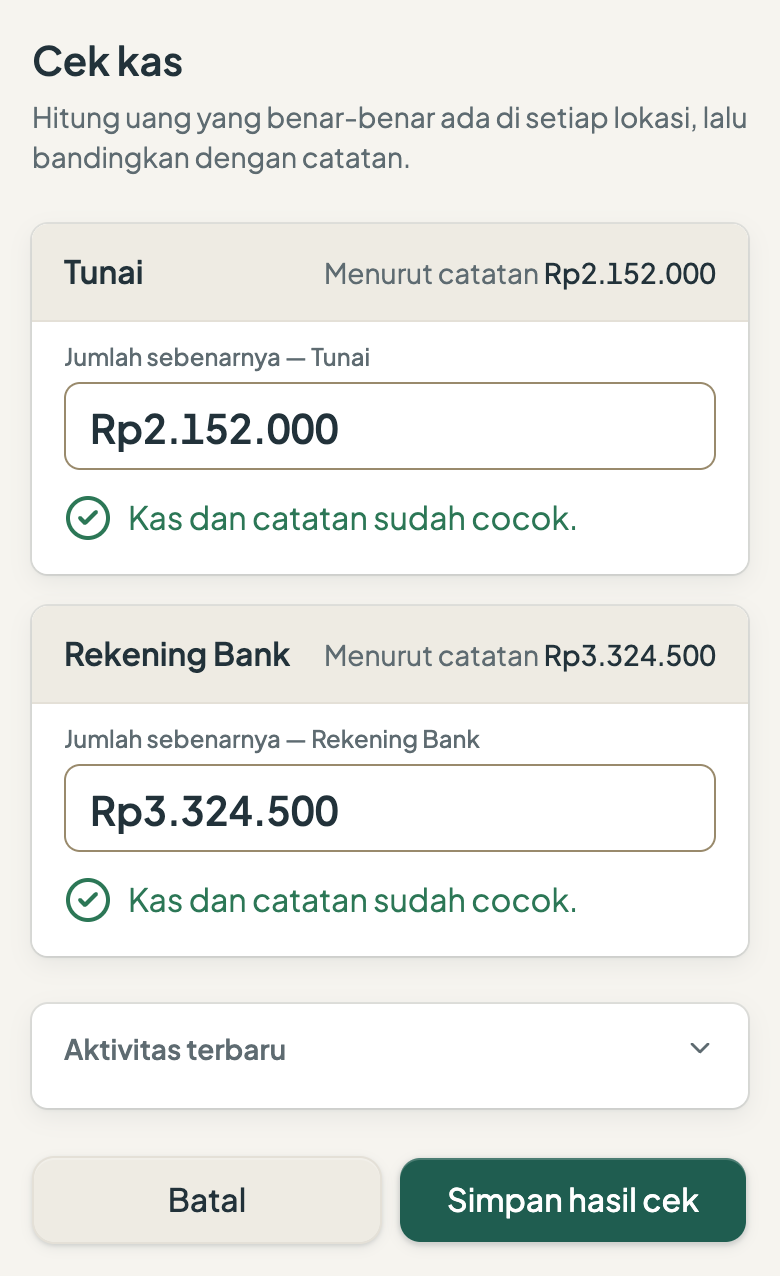
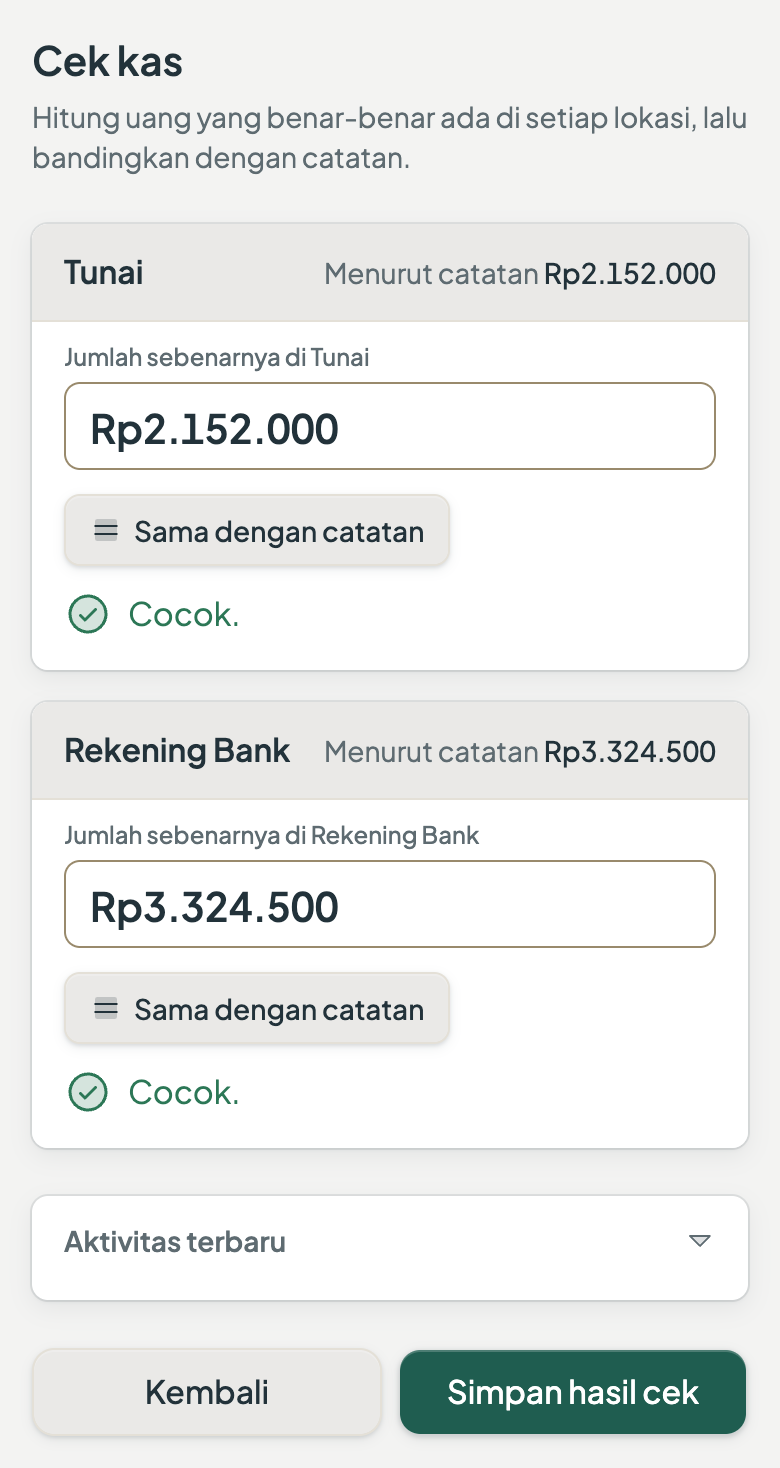
Design sync with app alpha.5; drop the founder's note (#25)
Near-grey palette, favicon and apple-touch icon from brand-sync; Phosphor
duotone icons; the app's row, total, badge and card rules on the hero and
Kenapa drawings; eyebrow at the app's 16px; demo screenshots retaken from
v0.11.0-alpha.5. The report's monthly PDF moves to the allowed claims.
Catatan pendiri is removed: a section earns its place.

diff --git a/src/icons.ts b/src/icons.ts
@@ -1,64 +1,78 @@
-// Icon path data, in one place. Line icons are Lucide (ISC licence,
-// lucide-static 1.63.0), the set the app uses; draw them on a 24x24 viewBox
-// with stroke="currentColor", stroke-width 2, round caps and joins. Brand marks
-// are Simple Icons (CC0, simple-icons 16.36.0), filled. Credits are in the
-// footer.
+// Icon path data, in one place. Line icons are Phosphor, duotone weight (MIT,
+// @phosphor-icons/core 2.1.1), the set and weight the app uses (Design-System.md,
+// Iconography). Each is two filled paths on a 256x256 viewBox: the shade,
+// drawn at 20% of the icon's colour, and the ink. Brand marks are Simple Icons
+// (CC0, simple-icons 16.36.0), filled. Credits are in the footer.
 
-export const lucide = {
-  wallet: [
-    'M19 7V4a1 1 0 0 0-1-1H5a2 2 0 0 0 0 4h15a1 1 0 0 1 1 1v4h-3a2 2 0 0 0 0 4h3a1 1 0 0 0 1-1v-2a1 1 0 0 0-1-1',
-    'M3 5v14a2 2 0 0 0 2 2h15a1 1 0 0 0 1-1v-4',
-  ],
-  landmark: [
-    'M10 18v-7',
-    'M11.119 2.205a2 2 0 0 1 1.762 0l7.84 3.846A.5.5 0 0 1 20.5 7h-17a.5.5 0 0 1-.22-.949z',
-    'M14 18v-7',
-    'M18 18v-7',
-    'M3 22h18',
-    'M6 18v-7',
-  ],
-  check: ['M20 6 9 17l-5-5'],
-  x: ['M18 6 6 18', 'm6 6 12 12'],
-  // What a fund records (Yang dicatat). Lucide's circle and rect are paths here.
-  users: [
-    'M16 21v-2a4 4 0 0 0-4-4H6a4 4 0 0 0-4 4v2',
-    'M16 3.128a4 4 0 0 1 0 7.744',
-    'M22 21v-2a4 4 0 0 0-3-3.87',
-    'M5 7a4 4 0 1 0 8 0a4 4 0 1 0-8 0',
-  ],
-  mail: [
-    'm22 7-8.991 5.727a2 2 0 0 1-2.009 0L2 7',
-    'M4 4h16a2 2 0 0 1 2 2v12a2 2 0 0 1-2 2H4a2 2 0 0 1-2-2V6a2 2 0 0 1 2-2z',
-  ],
-  receipt: [
-    'M12 17V7',
-    'M16 8h-6a2 2 0 0 0 0 4h4a2 2 0 0 1 0 4H8',
-    'M4 3a1 1 0 0 1 1-1 1.3 1.3 0 0 1 .7.2l.933.6a1.3 1.3 0 0 0 1.4 0l.934-.6a1.3 1.3 0 0 1 1.4 0l.933.6a1.3 1.3 0 0 0 1.4 0l.933-.6a1.3 1.3 0 0 1 1.4 0l.934.6a1.3 1.3 0 0 0 1.4 0l.933-.6A1.3 1.3 0 0 1 19 2a1 1 0 0 1 1 1v18a1 1 0 0 1-1 1 1.3 1.3 0 0 1-.7-.2l-.933-.6a1.3 1.3 0 0 0-1.4 0l-.934.6a1.3 1.3 0 0 1-1.4 0l-.933-.6a1.3 1.3 0 0 0-1.4 0l-.933.6a1.3 1.3 0 0 1-1.4 0l-.934-.6a1.3 1.3 0 0 0-1.4 0l-.933.6a1.3 1.3 0 0 1-.7.2 1 1 0 0 1-1-1z',
-  ],
-  arrowRightLeft: ['m16 3 4 4-4 4', 'M20 7H4', 'm8 21-4-4 4-4', 'M4 17h16'],
-  // Server sendiri. Lucide's rects and lines are paths here.
-  server: [
-    'M4 2h16a2 2 0 0 1 2 2v4a2 2 0 0 1-2 2H4a2 2 0 0 1-2-2V4a2 2 0 0 1 2-2z',
-    'M4 14h16a2 2 0 0 1 2 2v4a2 2 0 0 1-2 2H4a2 2 0 0 1-2-2v-4a2 2 0 0 1 2-2z',
-    'M6 6h.01',
-    'M6 18h.01',
-  ],
-  codeXml: ['m18 16 4-4-4-4', 'm6 8-4 4 4 4', 'm14.5 4-5 16'],
-  archive: [
-    'M3 3h18a1 1 0 0 1 1 1v3a1 1 0 0 1-1 1H3a1 1 0 0 1-1-1V4a1 1 0 0 1 1-1z',
-    'M4 8v11a2 2 0 0 0 2 2h12a2 2 0 0 0 2-2V8',
-    'M10 12h4',
-  ],
-  history: ['M3 12a9 9 0 1 0 9-9 9.75 9.75 0 0 0-6.74 2.74L3 8', 'M3 3v5h5', 'M12 7v5l4 2'],
-  chevronDown: ['m6 9 6 6 6-6'],
-  // The app's cocok and selisih marks. Lucide draws the circle as <circle>;
-  // here it is the same circle as a path.
-  circleCheck: ['M2 12a10 10 0 1 0 20 0a10 10 0 1 0-20 0', 'm16 9-5.5 5.5L8 12'],
-  triangleAlert: [
-    'm21.73 18-8-14a2 2 0 0 0-3.48 0l-8 14A2 2 0 0 0 4 21h16a2 2 0 0 0 1.73-3',
-    'M12 9v4',
-    'M12 17h.01',
-  ],
+export const phosphor = {
+  wallet: {
+    shade:
+      'M224,80V192a8,8,0,0,1-8,8H56a16,16,0,0,1-16-16V56A16,16,0,0,0,56,72H216A8,8,0,0,1,224,80Z',
+    ink: 'M216,64H56a8,8,0,0,1,0-16H192a8,8,0,0,0,0-16H56A24,24,0,0,0,32,56V184a24,24,0,0,0,24,24H216a16,16,0,0,0,16-16V80A16,16,0,0,0,216,64Zm0,128H56a8,8,0,0,1-8-8V78.63A23.84,23.84,0,0,0,56,80H216Zm-48-60a12,12,0,1,1,12,12A12,12,0,0,1,168,132Z',
+  },
+  bank: {
+    shade: 'M232,96H24L128,32Z',
+    ink: 'M24,104H48v64H32a8,8,0,0,0,0,16H224a8,8,0,0,0,0-16H208V104h24a8,8,0,0,0,4.19-14.81l-104-64a8,8,0,0,0-8.38,0l-104,64A8,8,0,0,0,24,104Zm40,0H96v64H64Zm80,0v64H112V104Zm48,64H160V104h32ZM128,41.39,203.74,88H52.26ZM248,208a8,8,0,0,1-8,8H16a8,8,0,0,1,0-16H240A8,8,0,0,1,248,208Z',
+  },
+  check: {
+    shade:
+      'M232,56V200a16,16,0,0,1-16,16H40a16,16,0,0,1-16-16V56A16,16,0,0,1,40,40H216A16,16,0,0,1,232,56Z',
+    ink: 'M205.66,85.66l-96,96a8,8,0,0,1-11.32,0l-40-40a8,8,0,0,1,11.32-11.32L104,164.69l90.34-90.35a8,8,0,0,1,11.32,11.32Z',
+  },
+  x: {
+    shade:
+      'M216,56V200a16,16,0,0,1-16,16H56a16,16,0,0,1-16-16V56A16,16,0,0,1,56,40H200A16,16,0,0,1,216,56Z',
+    ink: 'M205.66,194.34a8,8,0,0,1-11.32,11.32L128,139.31,61.66,205.66a8,8,0,0,1-11.32-11.32L116.69,128,50.34,61.66A8,8,0,0,1,61.66,50.34L128,116.69l66.34-66.35a8,8,0,0,1,11.32,11.32L139.31,128Z',
+  },
+  // What a fund records (Yang dicatat).
+  users: {
+    shade: 'M136,108A52,52,0,1,1,84,56,52,52,0,0,1,136,108Z',
+    ink: 'M117.25,157.92a60,60,0,1,0-66.5,0A95.83,95.83,0,0,0,3.53,195.63a8,8,0,1,0,13.4,8.74,80,80,0,0,1,134.14,0,8,8,0,0,0,13.4-8.74A95.83,95.83,0,0,0,117.25,157.92ZM40,108a44,44,0,1,1,44,44A44.05,44.05,0,0,1,40,108Zm210.14,98.7a8,8,0,0,1-11.07-2.33A79.83,79.83,0,0,0,172,168a8,8,0,0,1,0-16,44,44,0,1,0-16.34-84.87,8,8,0,1,1-5.94-14.85,60,60,0,0,1,55.53,105.64,95.83,95.83,0,0,1,47.22,37.71A8,8,0,0,1,250.14,206.7Z',
+  },
+  envelope: {
+    shade: 'M224,56l-96,88L32,56Z',
+    ink: 'M224,48H32a8,8,0,0,0-8,8V192a16,16,0,0,0,16,16H216a16,16,0,0,0,16-16V56A8,8,0,0,0,224,48Zm-96,85.15L52.57,64H203.43ZM98.71,128,40,181.81V74.19Zm11.84,10.85,12,11.05a8,8,0,0,0,10.82,0l12-11.05,58,53.15H52.57ZM157.29,128,216,74.18V181.82Z',
+  },
+  receipt: {
+    shade:
+      'M224,56V208l-32-16-32,16-32-16L96,208,64,192,32,208V56a8,8,0,0,1,8-8H216A8,8,0,0,1,224,56Z',
+    ink: 'M72,104a8,8,0,0,1,8-8h96a8,8,0,0,1,0,16H80A8,8,0,0,1,72,104Zm8,40h96a8,8,0,0,0,0-16H80a8,8,0,0,0,0,16ZM232,56V208a8,8,0,0,1-11.58,7.15L192,200.94l-28.42,14.21a8,8,0,0,1-7.16,0L128,200.94,99.58,215.15a8,8,0,0,1-7.16,0L64,200.94,35.58,215.15A8,8,0,0,1,24,208V56A16,16,0,0,1,40,40H216A16,16,0,0,1,232,56Zm-16,0H40V195.06l20.42-10.22a8,8,0,0,1,7.16,0L96,199.06l28.42-14.22a8,8,0,0,1,7.16,0L160,199.06l28.42-14.22a8,8,0,0,1,7.16,0L216,195.06Z',
+  },
+  arrowsLeftRight: {
+    shade: 'M208,80v96H48V80Z',
+    ink: 'M213.66,181.66l-32,32a8,8,0,0,1-11.32-11.32L188.69,184H48a8,8,0,0,1,0-16H188.69l-18.35-18.34a8,8,0,0,1,11.32-11.32l32,32A8,8,0,0,1,213.66,181.66Zm-139.32-64a8,8,0,0,0,11.32-11.32L67.31,88H208a8,8,0,0,0,0-16H67.31L85.66,53.66A8,8,0,0,0,74.34,42.34l-32,32a8,8,0,0,0,0,11.32Z',
+  },
+  // Server sendiri.
+  hardDrives: {
+    shade:
+      'M216,152v48a8,8,0,0,1-8,8H48a8,8,0,0,1-8-8V152a8,8,0,0,1,8-8H208A8,8,0,0,1,216,152ZM208,48H48a8,8,0,0,0-8,8v48a8,8,0,0,0,8,8H208a8,8,0,0,0,8-8V56A8,8,0,0,0,208,48Z',
+    ink: 'M208,136H48a16,16,0,0,0-16,16v48a16,16,0,0,0,16,16H208a16,16,0,0,0,16-16V152A16,16,0,0,0,208,136Zm0,64H48V152H208v48Zm0-160H48A16,16,0,0,0,32,56v48a16,16,0,0,0,16,16H208a16,16,0,0,0,16-16V56A16,16,0,0,0,208,40Zm0,64H48V56H208v48ZM192,80a12,12,0,1,1-12-12A12,12,0,0,1,192,80Zm0,96a12,12,0,1,1-12-12A12,12,0,0,1,192,176Z',
+  },
+  code: {
+    shade: 'M240,128l-48,40H64L16,128,64,88H192Z',
+    ink: 'M69.12,94.15,28.5,128l40.62,33.85a8,8,0,1,1-10.24,12.29l-48-40a8,8,0,0,1,0-12.29l48-40a8,8,0,0,1,10.24,12.3Zm176,27.7-48-40a8,8,0,1,0-10.24,12.3L227.5,128l-40.62,33.85a8,8,0,1,0,10.24,12.29l48-40a8,8,0,0,0,0-12.29ZM162.73,32.48a8,8,0,0,0-10.25,4.79l-64,176a8,8,0,0,0,4.79,10.26A8.14,8.14,0,0,0,96,224a8,8,0,0,0,7.52-5.27l64-176A8,8,0,0,0,162.73,32.48Z',
+  },
+  archive: {
+    shade: 'M216,96v96a8,8,0,0,1-8,8H48a8,8,0,0,1-8-8V96Z',
+    ink: 'M224,48H32A16,16,0,0,0,16,64V88a16,16,0,0,0,16,16v88a16,16,0,0,0,16,16H208a16,16,0,0,0,16-16V104a16,16,0,0,0,16-16V64A16,16,0,0,0,224,48ZM208,192H48V104H208ZM224,88H32V64H224V88ZM96,136a8,8,0,0,1,8-8h48a8,8,0,0,1,0,16H104A8,8,0,0,1,96,136Z',
+  },
+  clockCounterClockwise: {
+    shade: 'M216,128a88,88,0,1,1-88-88A88,88,0,0,1,216,128Z',
+    ink: 'M136,80v43.47l36.12,21.67a8,8,0,0,1-8.24,13.72l-40-24A8,8,0,0,1,120,128V80a8,8,0,0,1,16,0Zm-8-48A95.44,95.44,0,0,0,60.08,60.15C52.81,67.51,46.35,74.59,40,82V64a8,8,0,0,0-16,0v40a8,8,0,0,0,8,8H72a8,8,0,0,0,0-16H49c7.15-8.42,14.27-16.35,22.39-24.57a80,80,0,1,1,1.66,114.75,8,8,0,1,0-11,11.64A96,96,0,1,0,128,32Z',
+  },
+  caretDown: {
+    shade: 'M208,96l-80,80L48,96Z',
+    ink: 'M215.39,92.94A8,8,0,0,0,208,88H48a8,8,0,0,0-5.66,13.66l80,80a8,8,0,0,0,11.32,0l80-80A8,8,0,0,0,215.39,92.94ZM128,164.69,67.31,104H188.69Z',
+  },
+  // The app's cocok and selisih marks (Reconcile.tsx).
+  checkCircle: {
+    shade: 'M224,128a96,96,0,1,1-96-96A96,96,0,0,1,224,128Z',
+    ink: 'M173.66,98.34a8,8,0,0,1,0,11.32l-56,56a8,8,0,0,1-11.32,0l-24-24a8,8,0,0,1,11.32-11.32L112,148.69l50.34-50.35A8,8,0,0,1,173.66,98.34ZM232,128A104,104,0,1,1,128,24,104.11,104.11,0,0,1,232,128Zm-16,0a88,88,0,1,0-88,88A88.1,88.1,0,0,0,216,128Z',
+  },
+  magnifyingGlass: {
+    shade: 'M192,112a80,80,0,1,1-80-80A80,80,0,0,1,192,112Z',
+    ink: 'M229.66,218.34,179.6,168.28a88.21,88.21,0,1,0-11.32,11.31l50.06,50.07a8,8,0,0,0,11.32-11.32ZM40,112a72,72,0,1,1,72,72A72.08,72.08,0,0,1,40,112Z',
+  },
 } as const;
 
 export const simpleIcons = {

diff --git a/src/styles/tokens.css b/src/styles/tokens.css
@@ -11,7 +11,7 @@
    as a tint only, and gentle semantics (terracotta for "selisih", never
    alarm-red). Change these there first, then here. */
 :root {
-  --background: #f6f4ef;
+  --background: #f3f3f2;
   --foreground: #22323a;
   --card: #ffffff;
   --card-foreground: #22323a;
@@ -26,12 +26,12 @@
   --accent: #7bae8d;
   --accent-foreground: #22323a;
 
-  --muted: #eeebe3;
-  --muted-foreground: #5e6b71; /* 4.62:1 on --muted, 5.0:1 on the page (#508) */
+  --muted: #eae9e7;
+  --muted-foreground: #5e6b71; /* 4.53:1 on --muted, 4.95:1 on the page (#508) */
   --border: #e4e0d7;
   /* A step darker than the --border hairline: a field is something to type into,
-       and at the hairline's shade its edge all but vanished on the cream. */
-  --input: #998a6c; /* 3.08:1 on the page, 3.38:1 on a card: AA non-text (#508) */
+       and at the hairline's shade its edge all but vanished on the page. */
+  --input: #998a6c; /* 3.05:1 on the page, 3.38:1 on a card: AA non-text (#508) */
   --ring: #2f6f60;
 
   --success: #2c7756; /* 4.65:1 on success-soft, 4.92:1 on the page (#526) */
@@ -60,6 +60,9 @@
 
   /* The app's card elevation (Design-System.md, Shape and elevation). */
   --shadow-card: 0 1px 2px rgba(34, 50, 58, 0.06), 0 4px 12px rgba(34, 50, 58, 0.08);
+  /* The hairline ring under every app card (web/src/components/cardClasses.ts,
+     ring-1 ring-foreground/10); used on the drawings of app screens. */
+  --ring-card: 0 0 0 1px rgb(34 50 58 / 0.1);
 
   /* Layout. --header-height drives the sticky bar and scroll-padding-top. */
   --header-height: 4rem;

diff --git a/src/styles/global.css b/src/styles/global.css
@@ -112,7 +112,8 @@ a {
   gap: 1.125rem;
   margin-bottom: 1rem;
   color: var(--primary);
-  font-size: 0.9375rem;
+  /* The app's SectionLabel: text-base semibold Forest. */
+  font-size: 1rem;
   font-weight: 600;
 }
 .eyebrow::before {

diff --git a/CONTEXT.md b/CONTEXT.md
@@ -108,15 +108,15 @@ no "alpha" or "beta" badge, no roadmap promises. Each entry cites where the app 
 | _Talangan_, receipt optional                                                                                       | PRD §7.4                                    |
 | _Amplop_ for an occasion; the leftover rolls into Kas Utama                                                        | PRD §7.5                                    |
 | Public report: one link, no login, read-only                                                                       | PRD §7.9                                    |
+| The public report's monthly PDF, downloadable for printing or the group chat (allowed 2026-11-03)                  | PRD §7.9, `copy/id.ts` (Unduh PDF)          |
 | Posted transactions are never edited or deleted; a fix is a new entry                                              | `CONTEXT.md` Transaction                    |
 | Daily backups when something changed, downloadable and restorable in the app                                       | PRD §7.10, `copy/id.ts` (Cadangan otomatis) |
 | Runs on the community's own server; the project holds no data                                                      | PRD §5, `README.md`                         |
 | Free forever, no paid tier; open source, AGPL-3.0                                                                  | `README.md` principles 7, licence           |
 | Needs a technical helper to set up; needs a connection to use                                                      | PRD §3, §7.2; `README.md`                   |
 
-**Not yet (young or detail; revisit when durable):** the monthly PDF of the report (added
-2026-10-02), the Excel export, the twelve-month dues grid, waiving a _talangan_, per-envelope
-participation, the fund's time zone.
+**Not yet (young or detail; revisit when durable):** the Excel export, the twelve-month dues grid,
+waiving a _talangan_, per-envelope participation, the fund's time zone.
 
 **Never** (non-goals, or false): reminders or payment chasing, member accounts or logins, bank sync,
 QRIS, accounting journals, analytics dashboards, offline use, several treasurers, a hosted version,
@@ -198,7 +198,8 @@ theme, a blog, pricing (there is none), and any hosted signup.
 ## 10. Page structure
 
 Every section has an id, an eyebrow, a heading and a lede. Headings below are working titles; their
-wording is drafted with each slice.
+wording is drafted with each slice. A section earns its place on this page; the list is not a copy of
+another landing page's. 2026-11-03: _Catatan pendiri_ dropped.
 
 1. **Header:** wordmark (scrolls to top), anchors _Cara kerja_ · _Cek kas_ · _Laporan_ · _Server
    sendiri_, GitHub icon. No theme toggle (ADR-0008).
@@ -217,16 +218,15 @@ wording is drafted with each slice.
    akuntansi_, _Sistem RT_), pairing evenly.
 6. **Yang dicatat:** four icon cards: dues by _golongan_, _amplop_, _talangan_, _titipan_.
 7. **Bukti** (`#laporan`): the public report, shown from the demo.
-8. **Catatan pendiri:** placeholder until the maintainer writes it.
-9. **Server sendiri** (`#server-sendiri`): four cards (the community's own server, open source,
+8. **Server sendiri** (`#server-sendiri`): four cards (the community's own server, open source,
    daily backups, nothing deleted) and the honest caveat: setting Uruni up takes someone used to
    running a server.
-10. **Tanya jawab:** plain `<details>`. Questions: _Berapa biayanya?_ · _Ada versi yang tinggal
-    pakai?_ · _Apa yang dibutuhkan untuk memasangnya?_ · _Siapa yang bisa melihat datanya?_ ·
-    _Apakah anggota perlu akun?_ · _Bisa dipakai tanpa internet?_ · _Kalau salah catat?_ · _Kalau
-    ponsel hilang?_ · _Cocok untuk RT yang besar?_ · _Bagaimana cara ikut membantu?_
-11. **Penutup:** both CTAs and the caveat, word for word.
-12. **Footer:** wordmark, the canonical paragraph, links (GitHub, licence, app repo), icon credits.
+9. **Tanya jawab:** plain `<details>`. Questions: _Berapa biayanya?_ · _Ada versi yang tinggal
+   pakai?_ · _Apa yang dibutuhkan untuk memasangnya?_ · _Siapa yang bisa melihat datanya?_ ·
+   _Apakah anggota perlu akun?_ · _Bisa dipakai tanpa internet?_ · _Kalau salah catat?_ · _Kalau
+   ponsel hilang?_ · _Cocok untuk RT yang besar?_ · _Bagaimana cara ikut membantu?_
+10. **Penutup:** both CTAs and the caveat, word for word.
+11. **Footer:** wordmark, the canonical paragraph, links (GitHub, licence, app repo), icon credits.
 
 **Illustrative data** lives in one hand-written module and is set in the demo's world (the
 _CS Shift Sore_ office fund), so the hero drawing and the demo screenshots tell one story.
